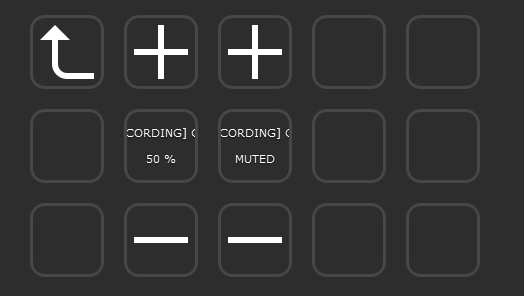
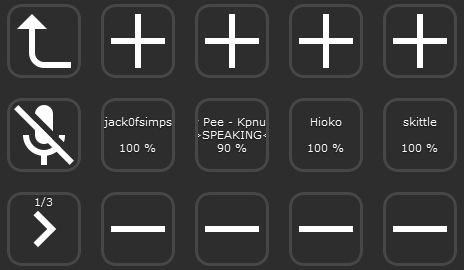
You can now hold volume button, some more improvements

diff --git a/src/button/button_volume.cpp b/src/button/button_volume.cpp
@@ -5,6 +5,12 @@ static constexpr int maxVolume = 200;
 
 Button_Volume::Button_Volume(const Button::CtorData &d) : Button_UserRelated(d) {
 	step = (d.action == "cz.danol.discordmixer.volumeup" ? 1 : -1) * 10;
+
+	repeatTimer.setInterval(100);
+	repeatTimer.callOnTimeout([this] {
+		if(repeatSkip-- <= 0)
+			trigger();
+	});
 }
 
 VoiceState *Button_Volume::voiceState() {
@@ -27,6 +33,19 @@ void Button_Volume::update() {
 }
 
 void Button_Volume::onPressed() {
+	/// Ignore first 300 ms
+	repeatSkip = 3;
+	trigger();
+	repeatTimer.start();
+}
+
+void Button_Volume::onReleased() {
+	repeatTimer.stop();
+	state = -1;
+	update();
+}
+
+void Button_Volume::trigger() {
 	VoiceState *s = voiceState();
 	if(!s)
 		return;
@@ -45,9 +64,4 @@ void Button_Volume::onPressed() {
 		{"mute",    false}
 	});
 	device.updateButtons();
-}
-
-void Button_Volume::onReleased() {
-	state = -1;
-	update();
 }

diff --git a/src/button/button_user.cpp b/src/button/button_user.cpp
@@ -12,7 +12,7 @@ void Button_User::update() {
 
 	QString newTitle;
 	if(is)
-		newTitle = QStringLiteral("%1\n%3\n%2").arg(state.nick, volumeStr, state.speaking ? "^^^^^^^^" : "");
+		newTitle = QStringLiteral("%1\n%3\n%2").arg(state.nick, volumeStr, state.speaking ? ">>SPEAKING<<" : "");
 	else if(device.voiceStates.isEmpty())
 		newTitle = QString("NOBODY IN\nVOICE CHAT");
 

diff --git a/src/button/button_volume.h b/src/button/button_volume.h
@@ -1,5 +1,7 @@
 #pragma once
 
+#include <QTimer>
+
 #include "button_user_related.h"
 
 class Button_Volume : public Button_UserRelated {
@@ -18,8 +20,14 @@ public:
 	virtual void onReleased() override;
 
 public:
+	void trigger();
+
+public:
 	int step;
 	int state = -1;
+
+	int repeatSkip = 0;
+	QTimer repeatTimer;
 
 };
 
